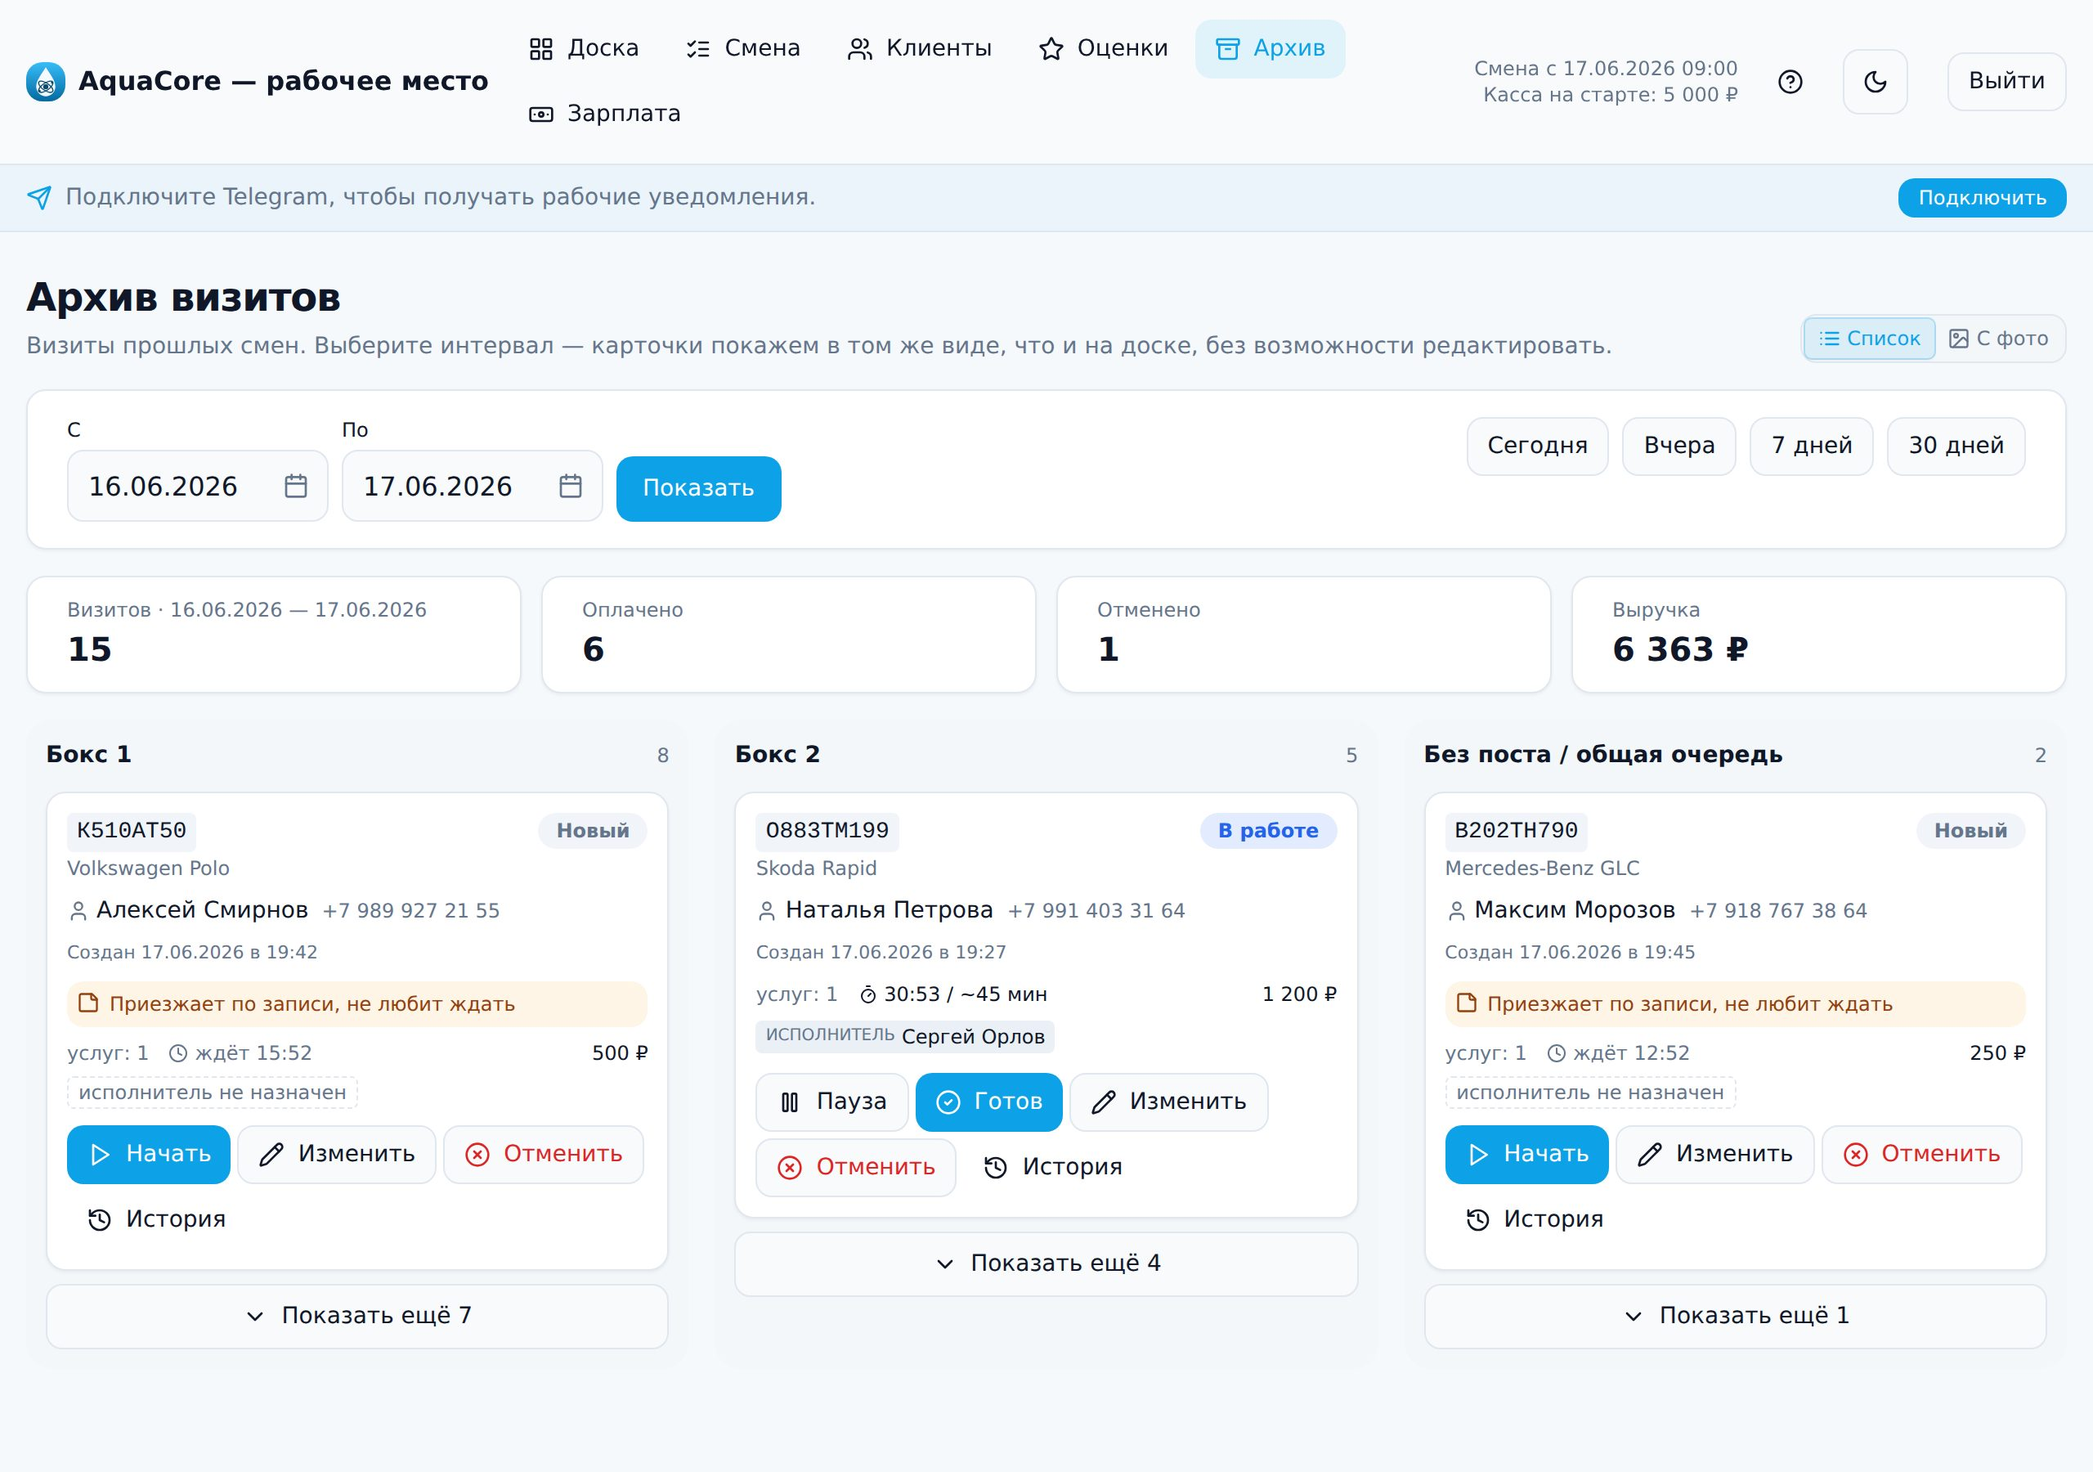
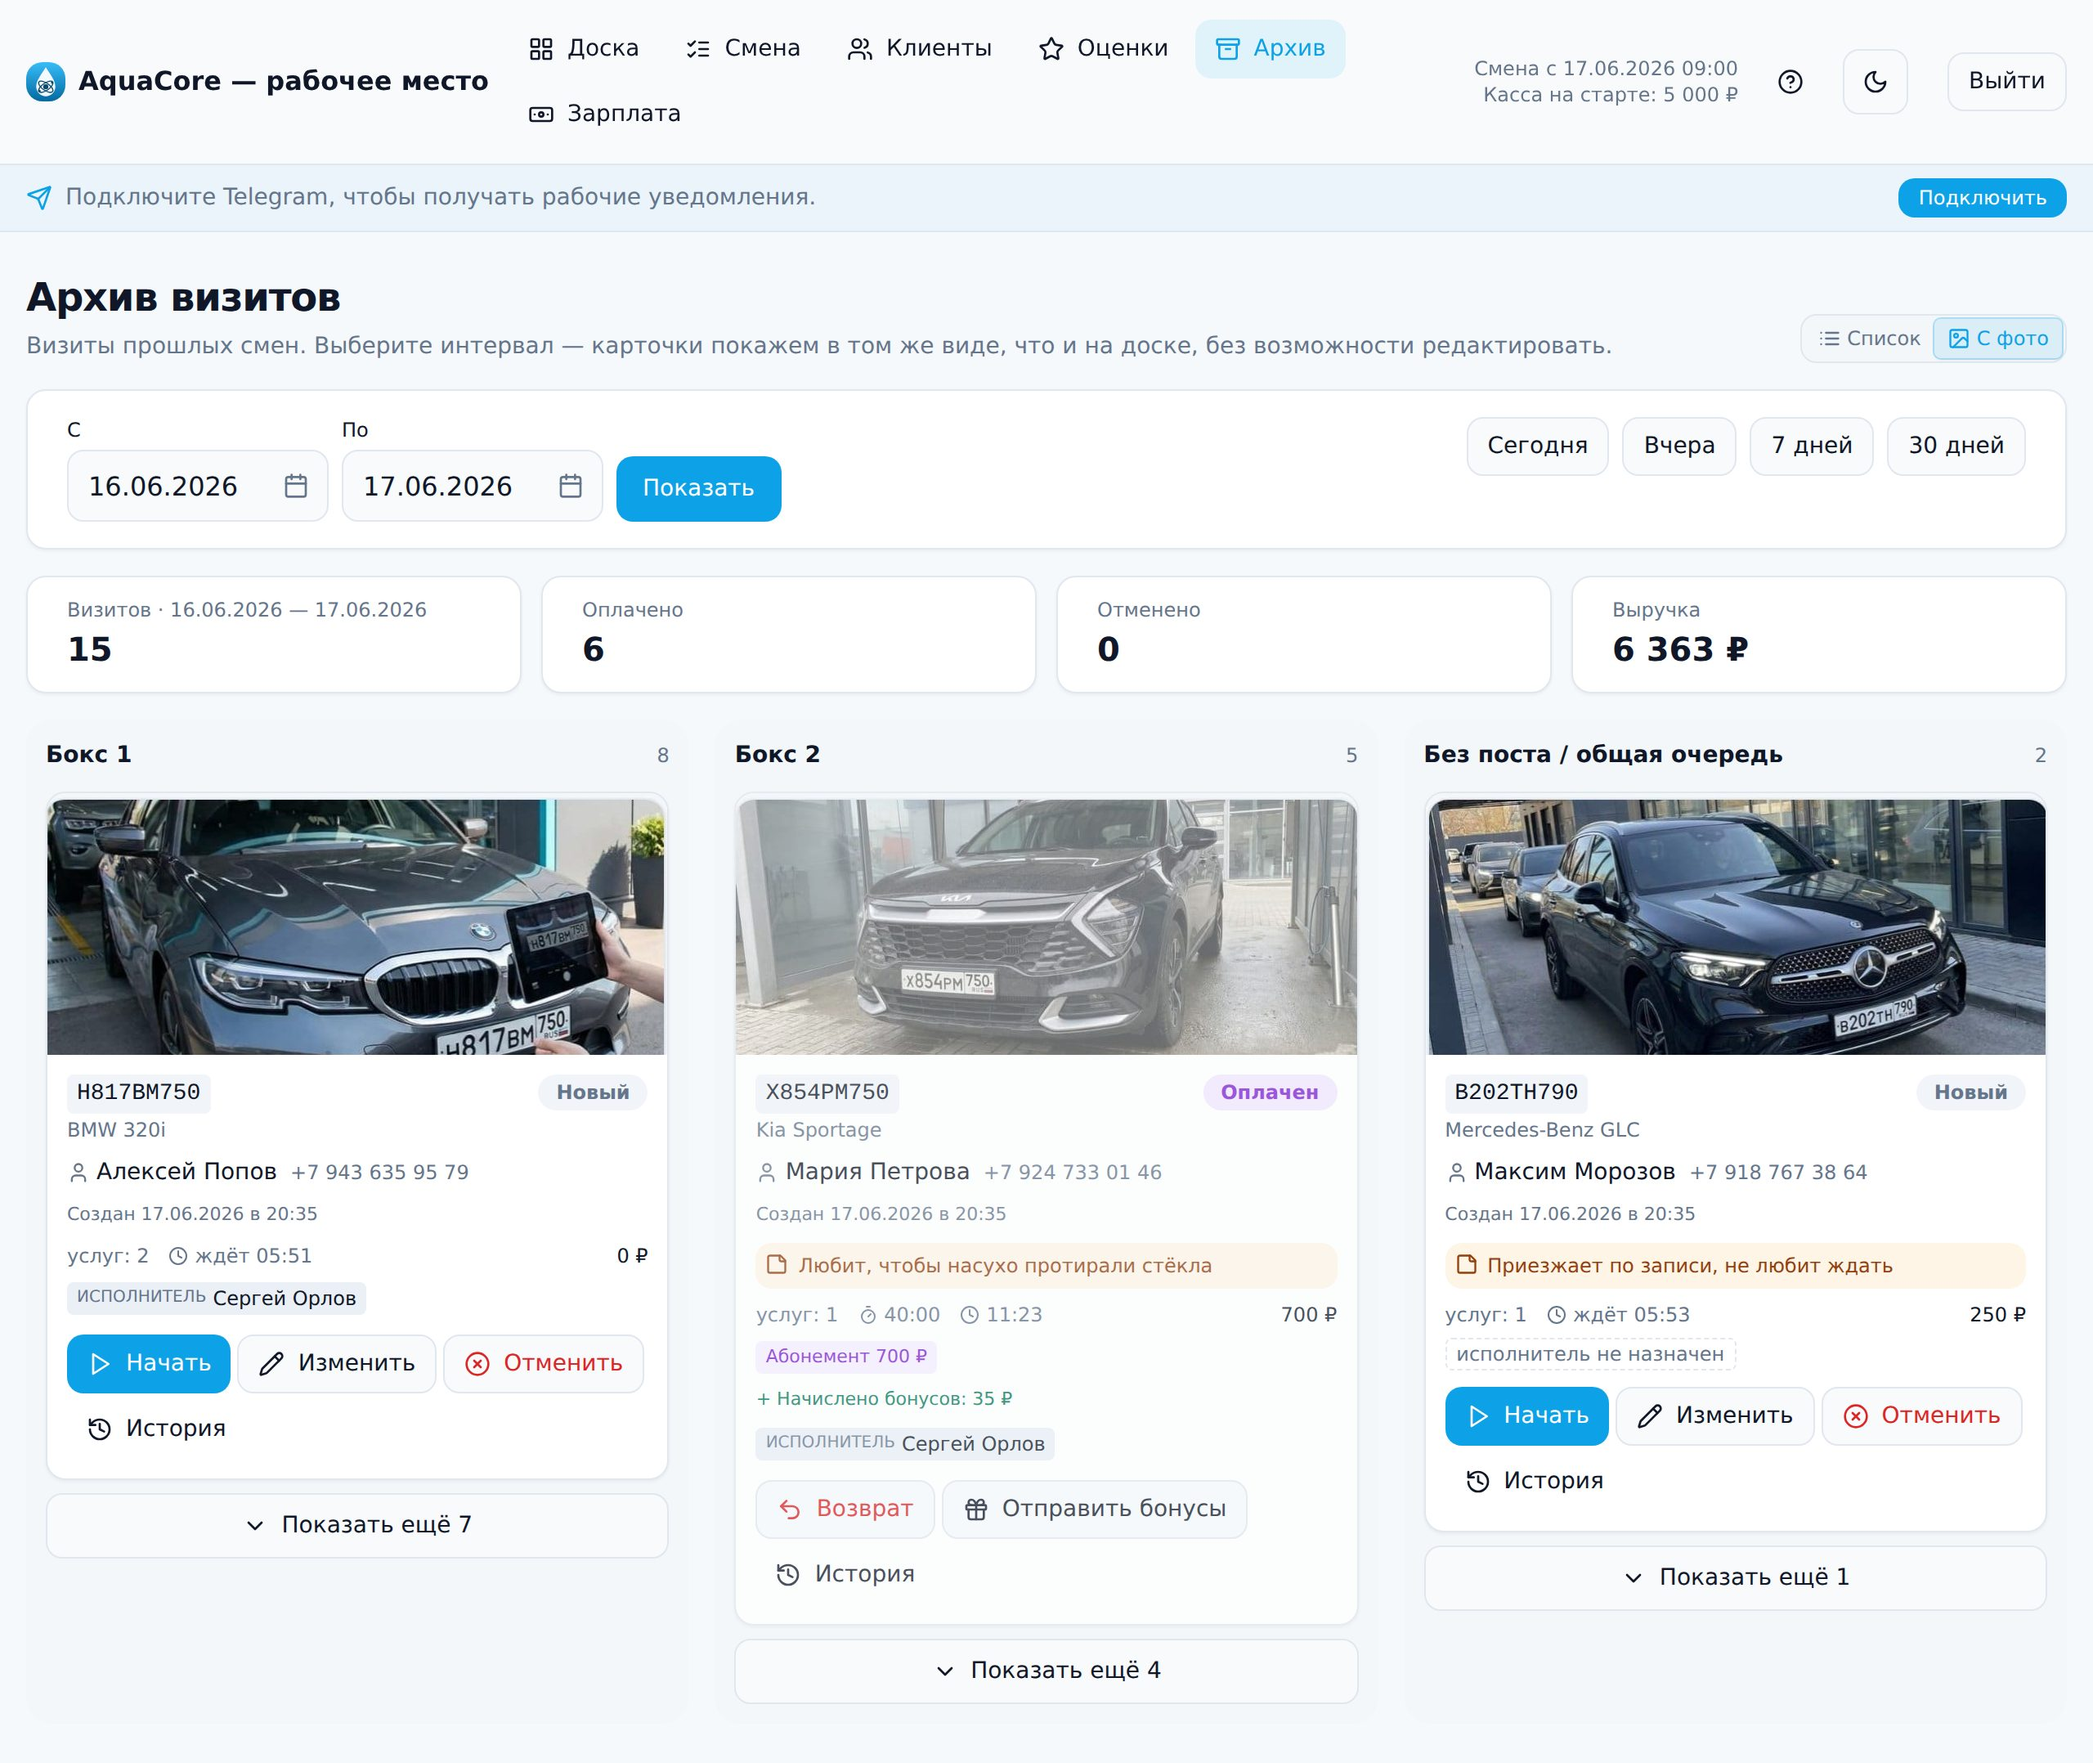
Скриншоты: фото машин в архиве, убран экран входа, Telegram в карточке модулей
Правки по ревью:
- admin-archive: снят в режиме «С фото» — реальные фото машин в карточках
  (BMW/Kia/Mercedes, как раньше). PAID-карточка показывает «Отправить бонусы»
  (Telegram), а не «SMS с бонусами».
- Убран скрин «Вход через Telegram» (login-telegram) из галереи и public/screens.
- manager-client-link: перевыпущен — модуль теперь «Telegram-уведомления»
  (был устаревший «SMS-уведомления»), ссылка показана на проде aqua-core.ru.
- capture-screens.mjs: режим «С фото» (localStorage), клип карточек настроек,
  показ продакшн-URL ссылки.

Claude-Session: https://claude.ai/code/session_01WNfDmg1f22BPHbsnyLYnX8

diff --git a/src/config/screens.ts b/src/config/screens.ts
@@ -215,13 +215,6 @@ export const shots: Shot[] = [
     device: "mobile",
   },
   {
-    file: "login-telegram.jpg",
-    title: "Вход через Telegram",
-    caption: "Клиент входит в кабинет в одно касание — подтверждает номер прямо в Telegram, без паролей и SMS-кодов. Заодно подключаются уведомления.",
-    role: "Клиент",
-    device: "mobile",
-  },
-  {
     file: "client-booking.jpg",
     title: "Онлайн-запись",
     caption: "Клиент выбирает услугу, авто и время — администратор сразу видит его в очереди.",
